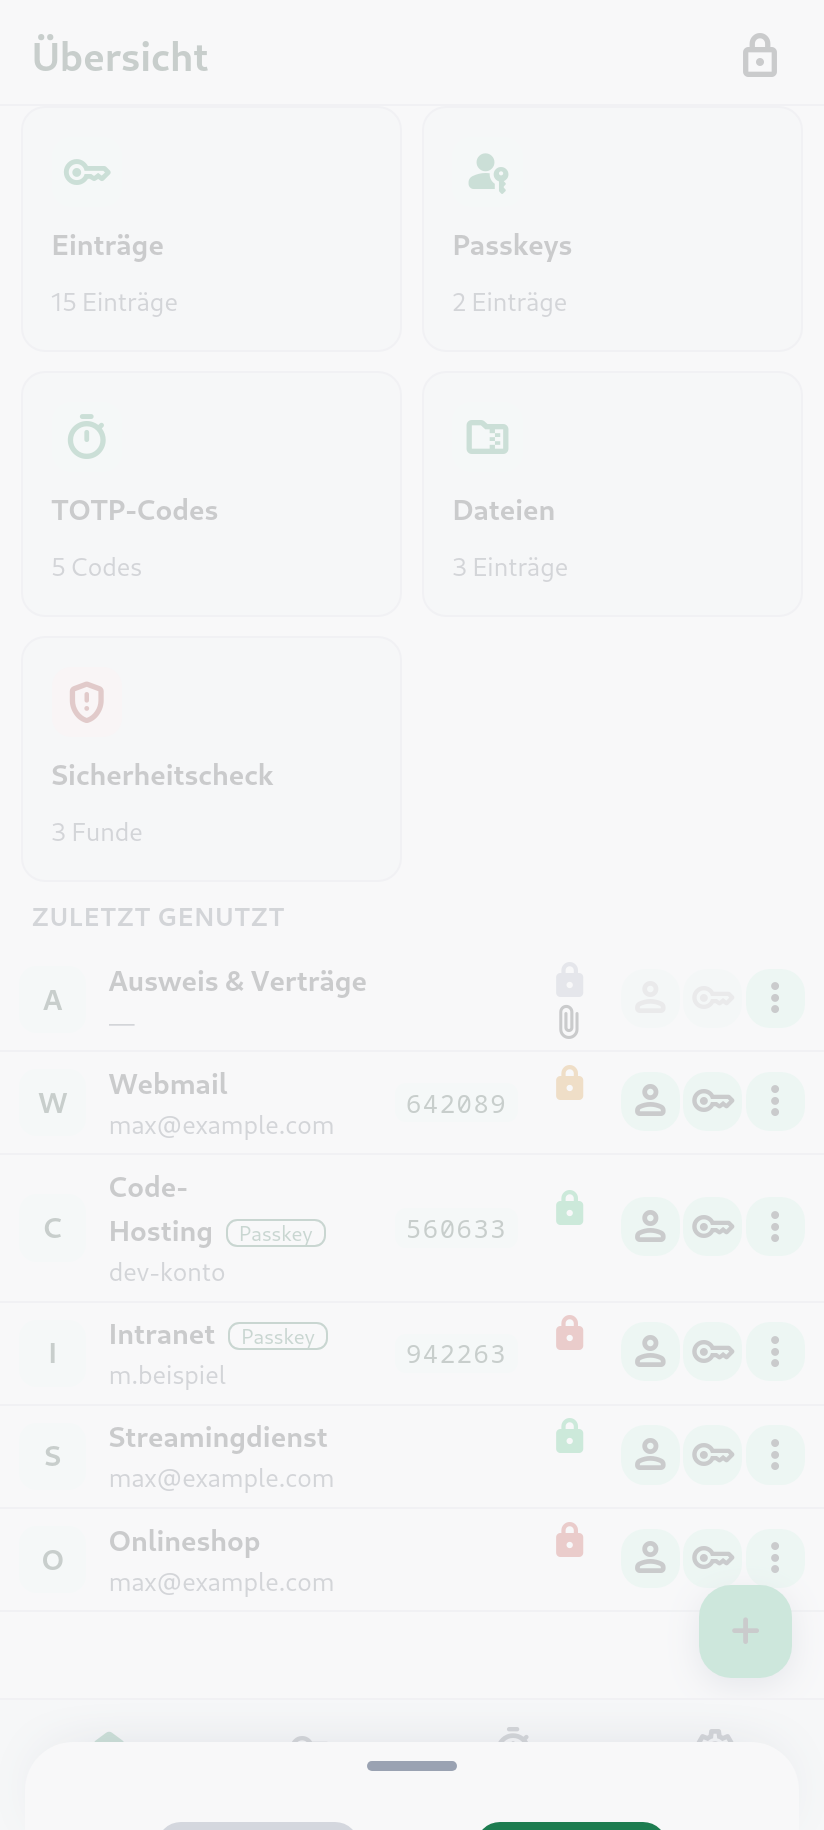
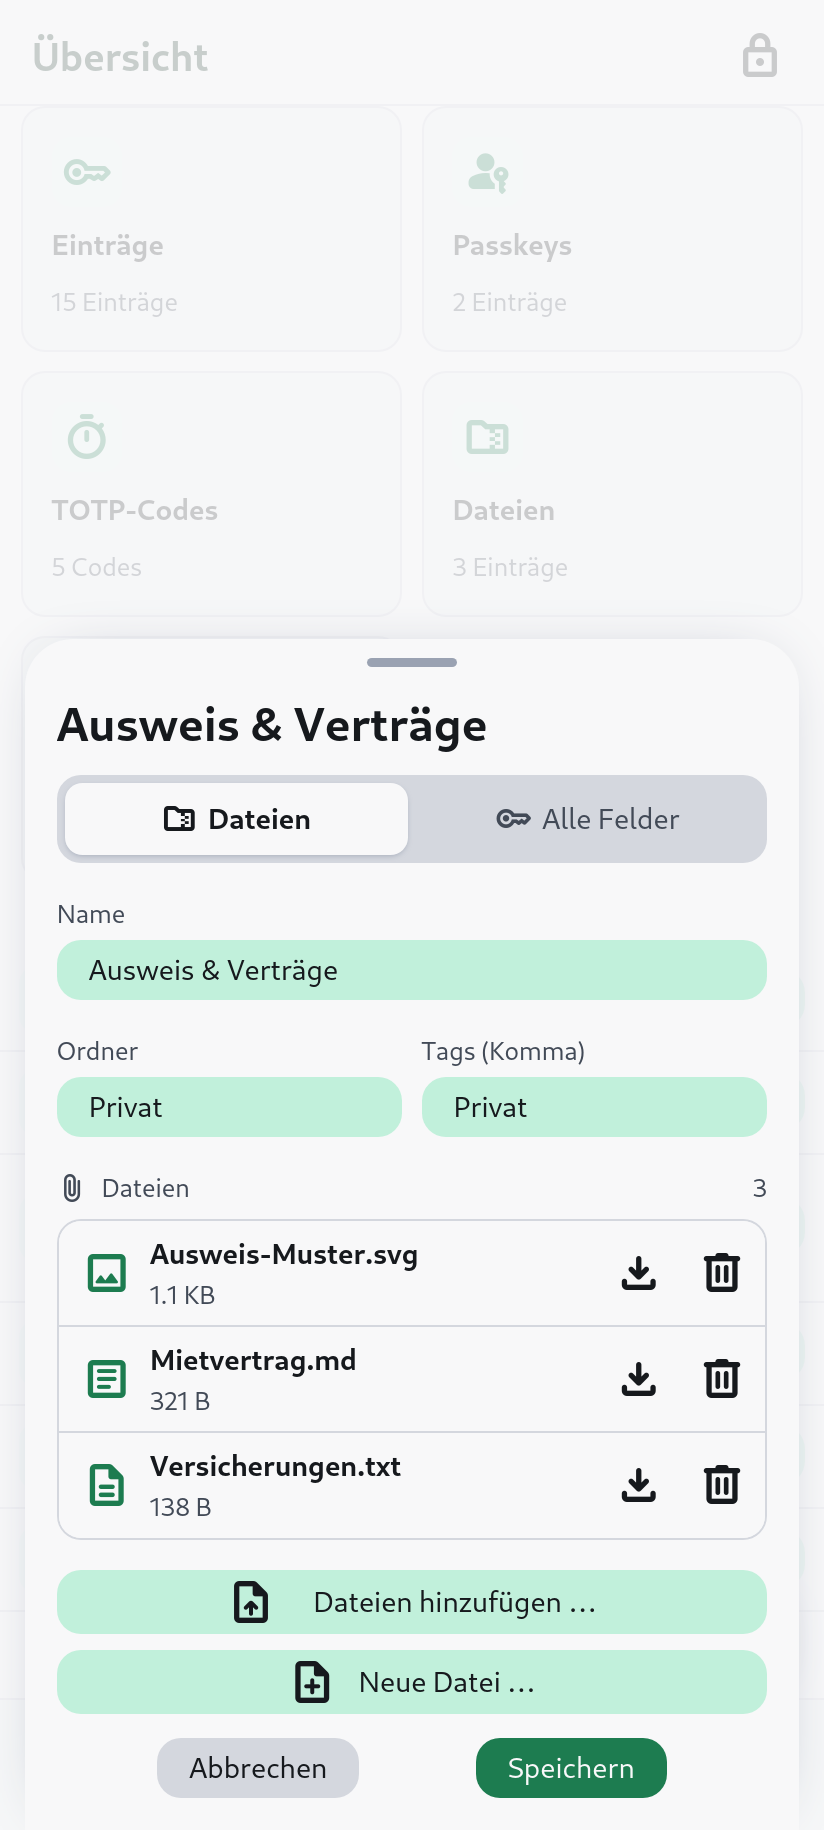
Datei-Vorschau: Vollbild ohne Griff (position: center)

diff --git a/src-ui/js/dialogs/entry.js b/src-ui/js/dialogs/entry.js
@@ -966,6 +966,8 @@ export async function openAttachmentViewer(att, { edit = false } = {}) {
 
   await dialog({
     id: 'file-viewer',
+    // Vollbild (siehe app.css) – an keiner Kante, also ohne Griff.
+    position: 'center',
     // Der Titel ist der Dateiname und zugleich der Knopf zum Umbenennen.
     title: `<span class="file-viewer-title">
         <button type="button" class="file-viewer-name" data-viewer-rename title="Umbenennen"><strong></strong><span class="msr">edit</span></button>
